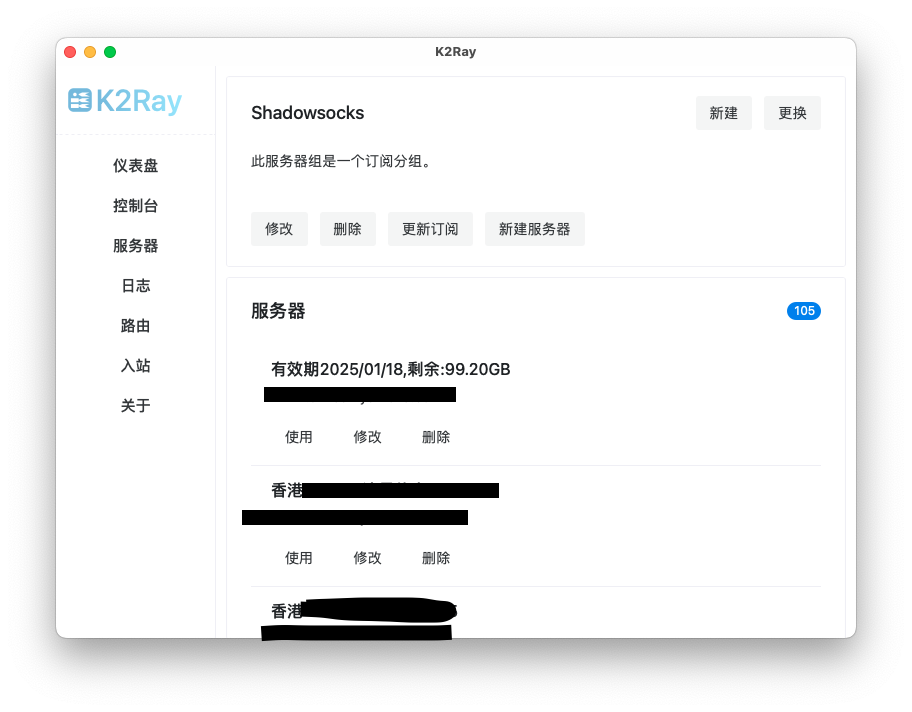
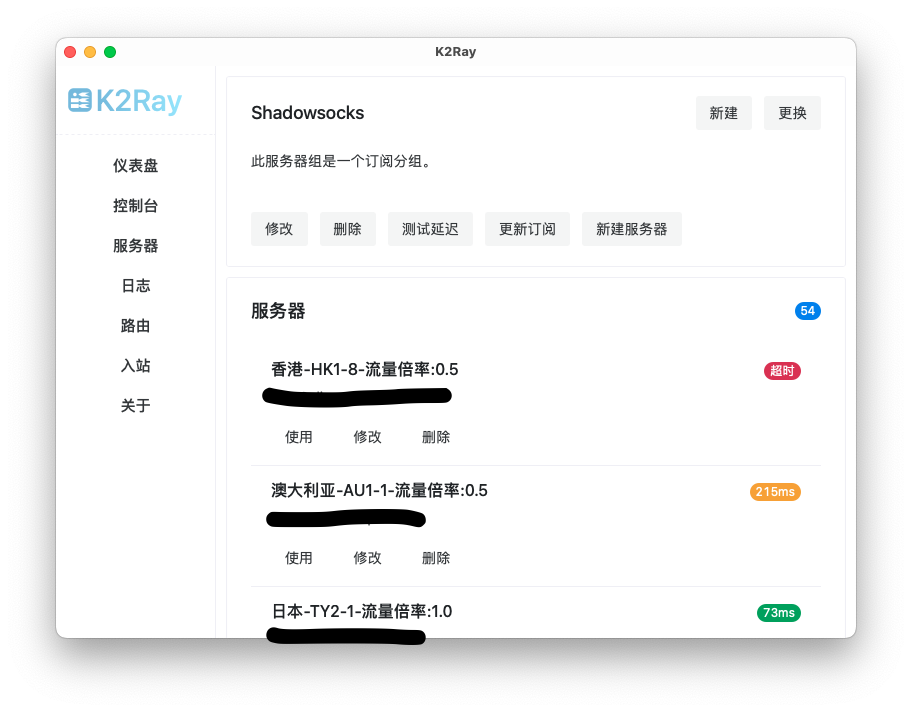
doc

diff --git a/README.md b/README.md
@@ -16,12 +16,18 @@
 
 目前 0.5.0 版本支持 macOS ， 0.4.0 版本支持 macOS 和 Windows 。支持以下功能：
 
-- 管理系统代理的状态；
-- 管理 V2Ray 的状态；
-- 服务器订阅；
-- V2Ray 的路由功能；
-- 当前只支持 Trojan 协议。
-  - 如果你知道其他协议的配置定义，那么请提 issue 要求添加。
+- 仪表盘：
+  - 管理系统代理的状态；
+  - 管理 V2Ray 的状态；
+- 服务器：
+  - 服务器订阅；
+  - 检测服务器延迟；
+  - 当前只支持 Trojan 协议。
+    - 如果你知道其他协议的配置定义，那么请提 issue 要求添加。
+- 日志：
+  - 展示 V2Ray 的访问日志，方便检查某个请求究竟走了哪个出站口；
+- 路由：
+  - V2Ray 的路由配置；
 
 ## Usage
 
